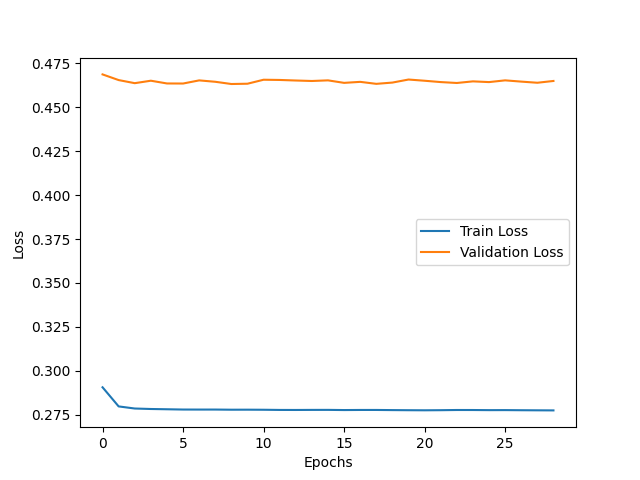
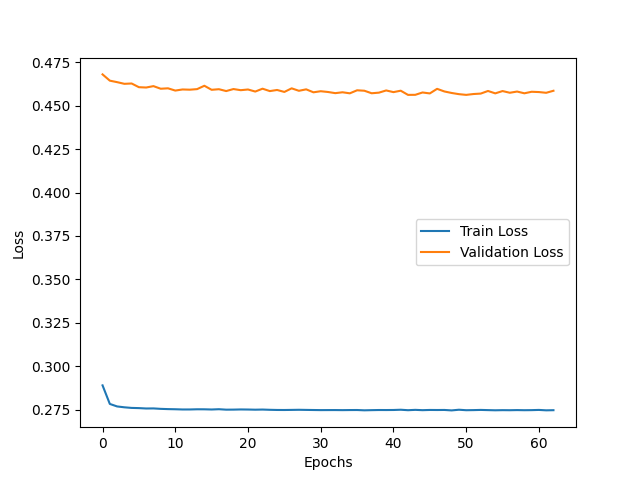
ok

diff --git a/08-modelling-07b.py b/08-modelling-07b.py
@@ -18,7 +18,7 @@ from sklearn.metrics import accuracy_score, roc_auc_score, f1_score
 
 # Configuration Block
 CONFIG = {
-    'neurons_ratio': 5,
+    'neurons_ratio': 10,
     'dropout_rate': 0.05,
     'batch_size': 128,
     'learning_rate': 0.001,
@@ -53,7 +53,7 @@ logging.info(f"x scaled shape: {x_scaled.shape}")
 logging.info(f"y scaled shape: {y_scaled.shape}")
 
 # Split data
-x_train_scaled, x_rem_scaled, y_train_scaled, y_rem_scaled = train_test_split(x_scaled, y_scaled, train_size=0.9, random_state=42)
+x_train_scaled, x_rem_scaled, y_train_scaled, y_rem_scaled = train_test_split(x_scaled, y_scaled, train_size=0.7, random_state=42)
 x_val_scaled, x_test_scaled, y_val_scaled, y_test_scaled = train_test_split(x_rem_scaled, y_rem_scaled, test_size=1/3, random_state=42)
 
 logging.info(f"x_train shape: {x_train_scaled.shape}")
